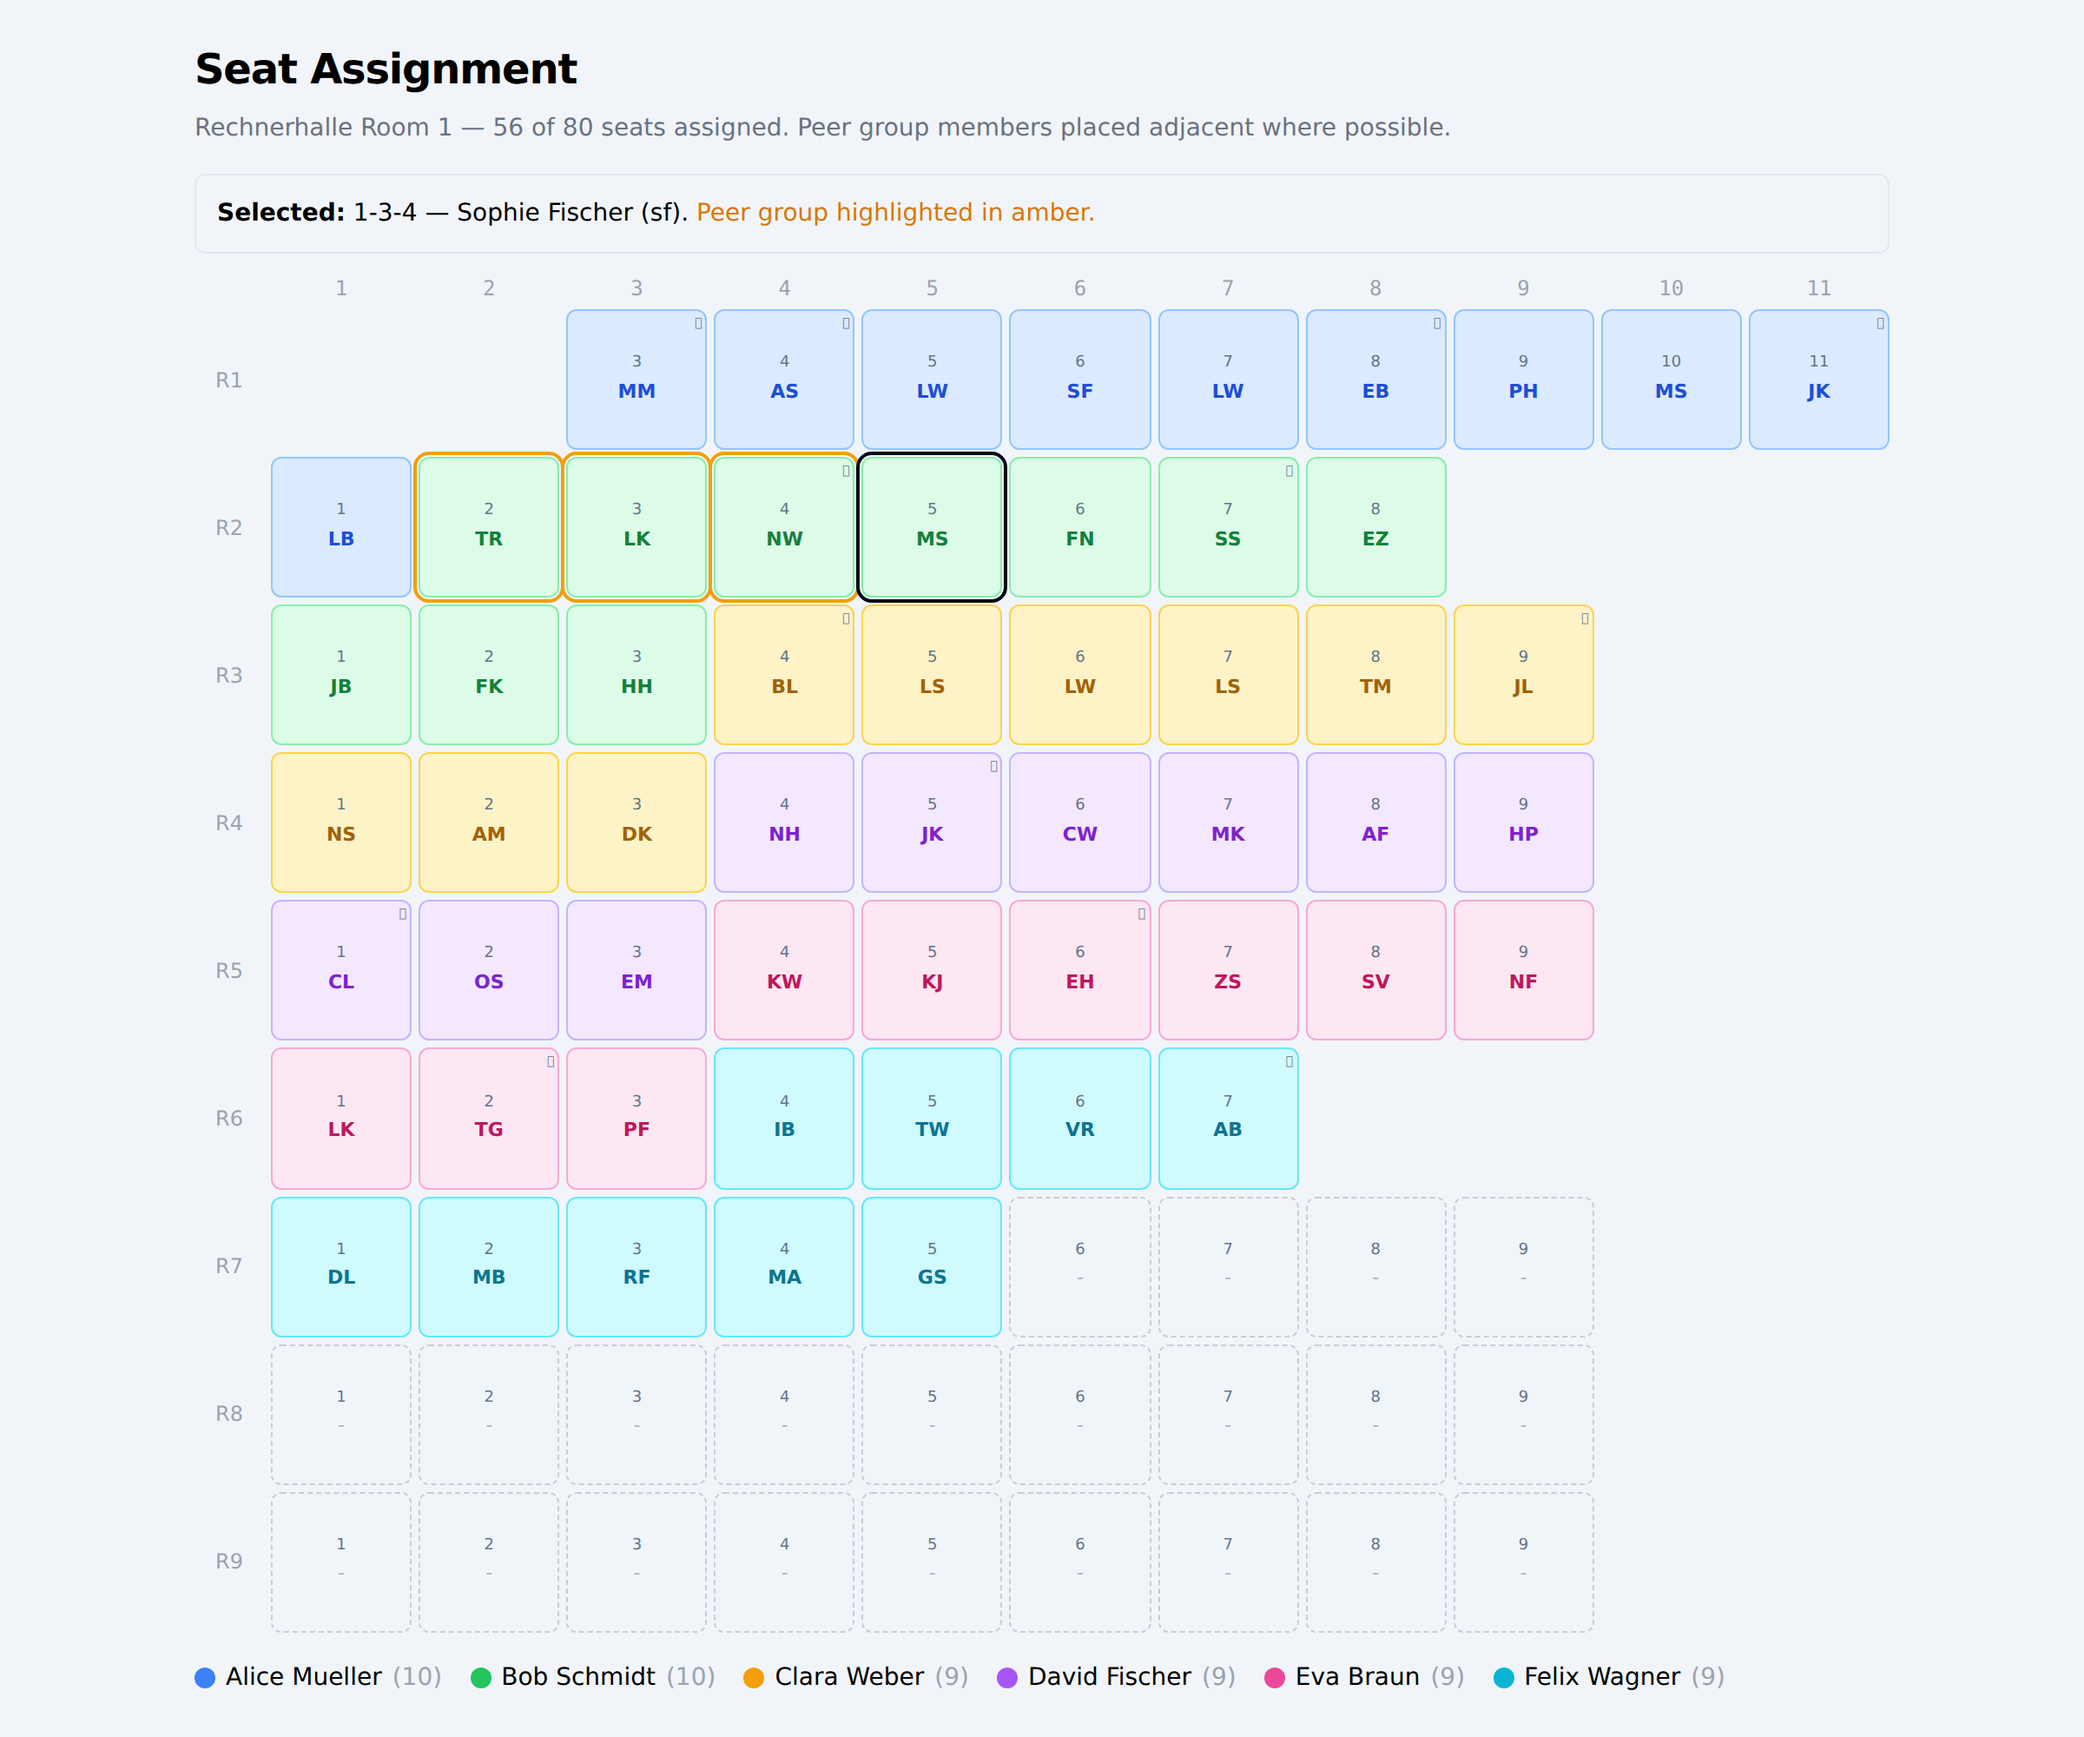
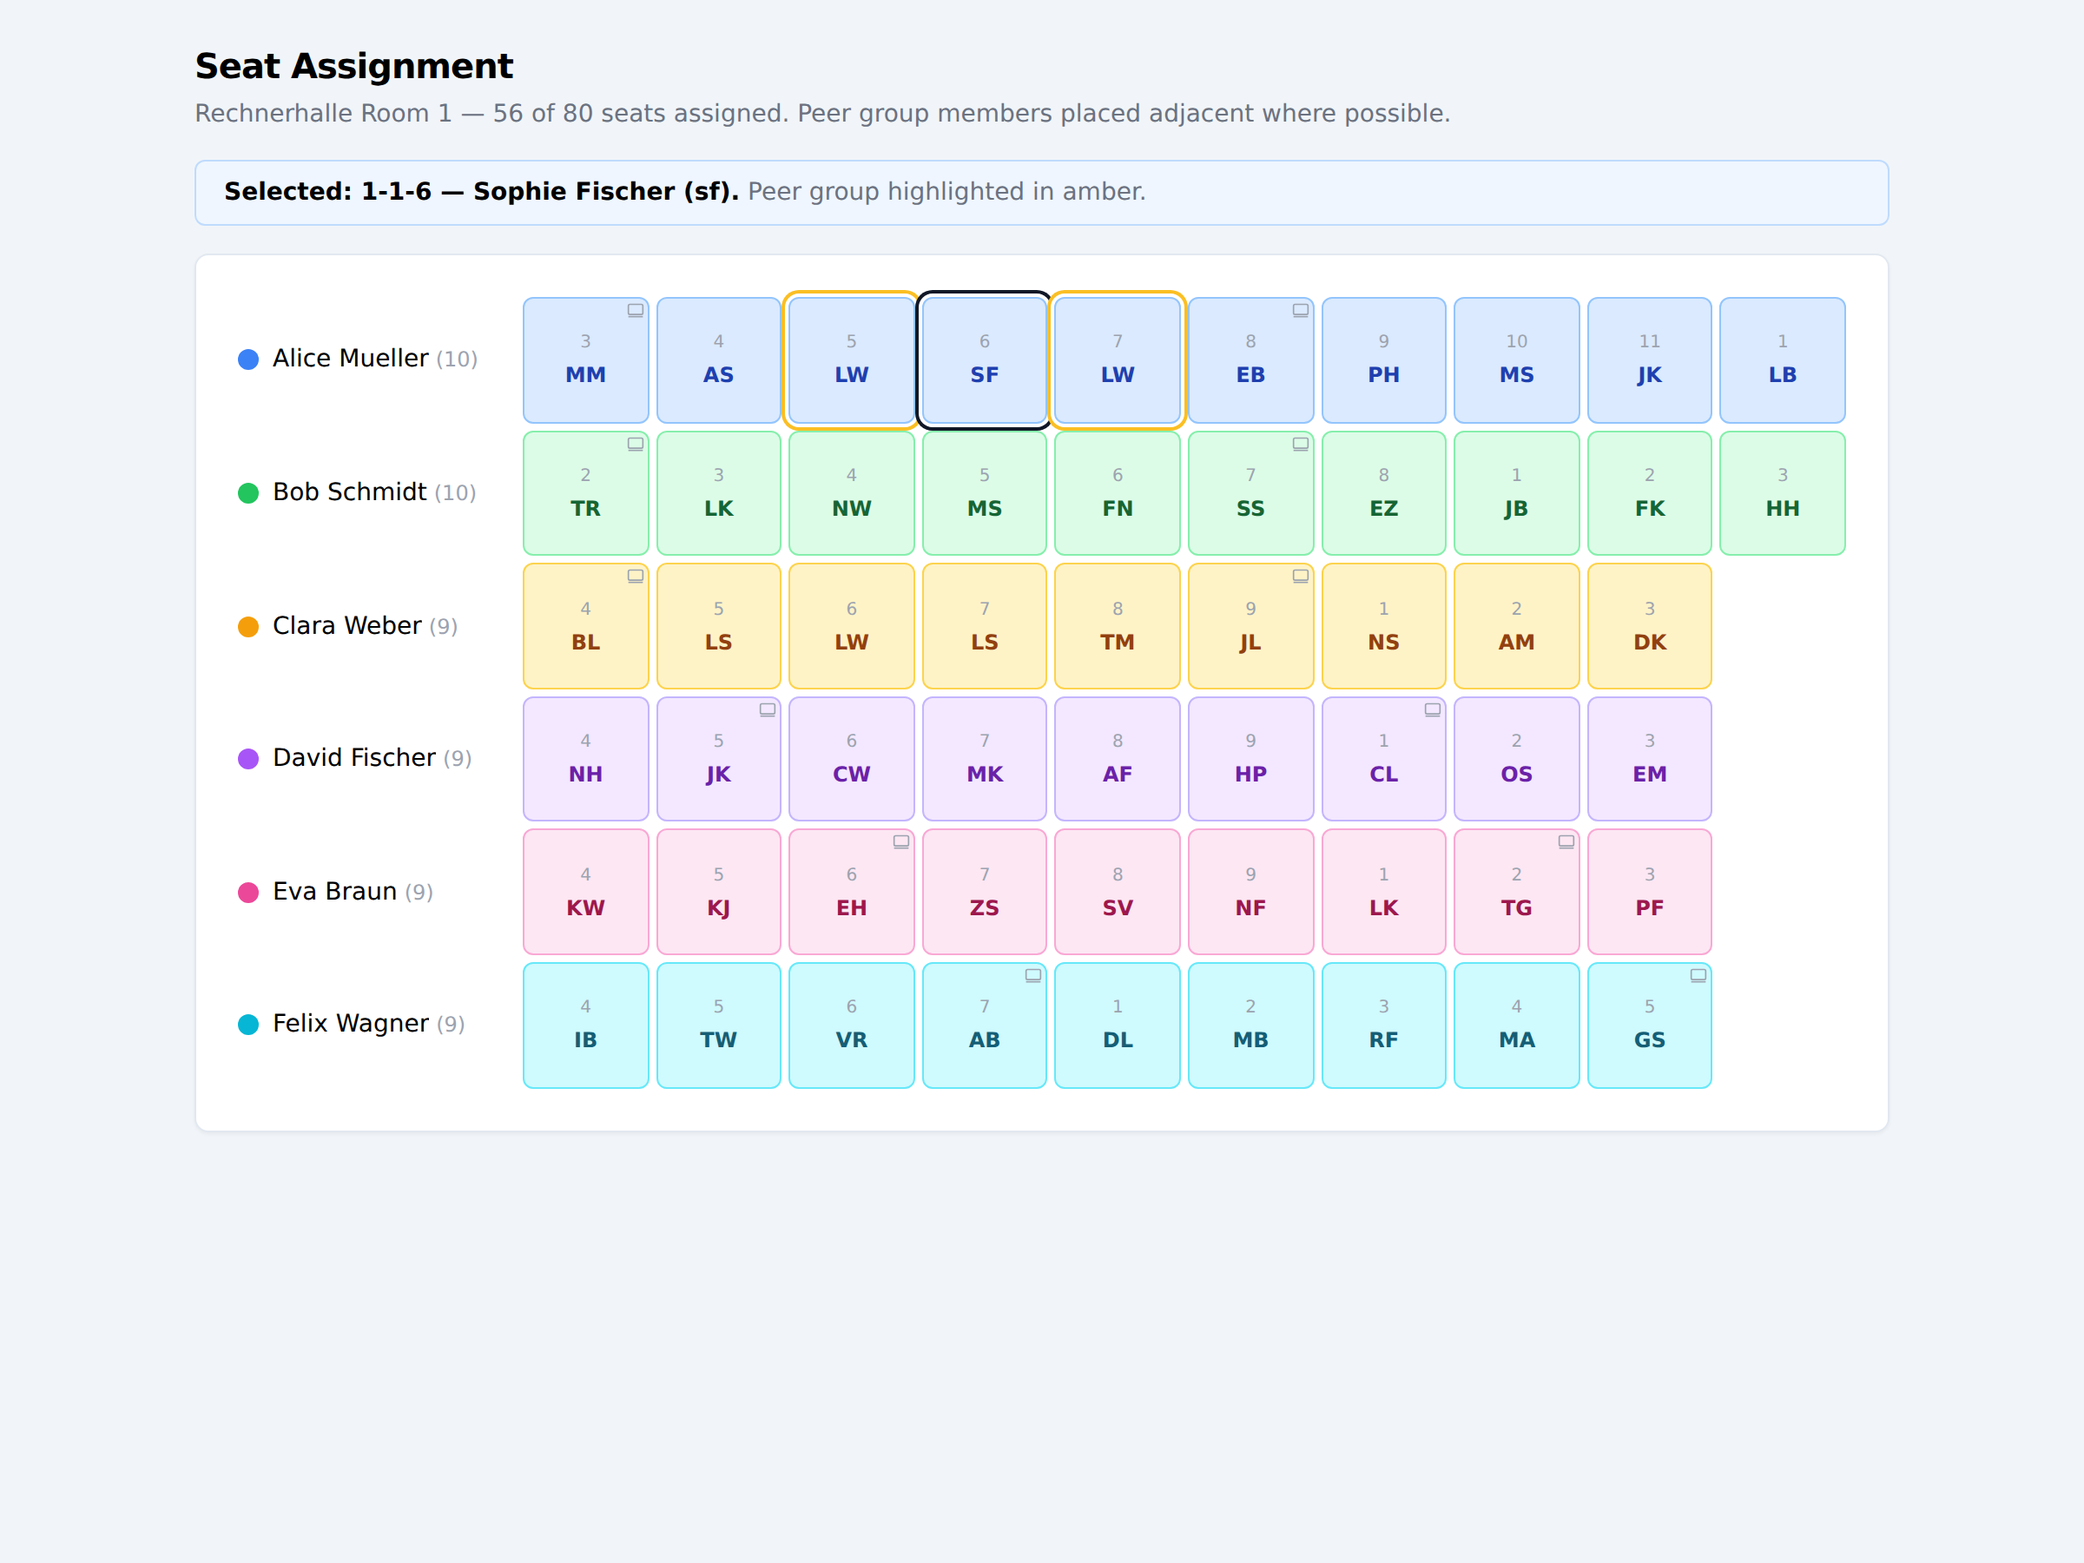
Transpose SeatGrid to tutor-grouped rows
Each tutor gets one row in the seat grid, with all their seats laid out
horizontally. This replaces the physical R1-R9 room grid with a cleaner
tutor-oriented view where grouping is immediately visible.

- Tutor name + student count as row label (with color dot)
- Seats sorted by row then position within each tutor row
- Removed SeatGridLegend (tutor info now in row labels)
- Wider label column (10rem) for full tutor names

diff --git a/client/src/introCourse/pages/SeatAssignment/components/SeatGrid/SeatGrid.tsx b/client/src/introCourse/pages/SeatAssignment/components/SeatGrid/SeatGrid.tsx
@@ -17,9 +17,8 @@ import { Seat } from '../../../../interfaces/Seat'
 import { Tutor } from '../../../../interfaces/Tutor'
 import { PeerAssignment } from '../../../../interfaces/PeerAssignment'
 import { updateSeatPlan } from '../../../../network/mutations/updateSeatPlan'
-import { buildSeatLookup, getGridDimensions, parseSeatName } from '../../utils/seatGrid'
+import { parseSeatName, TUTOR_COLORS } from '../../utils/seatGrid'
 import { SeatCell } from './SeatCell'
-import { SeatGridLegend } from './SeatGridLegend'
 import { CoursePhaseParticipationWithStudent } from '@tumaet/prompt-shared-state'
 
 interface SeatGridProps {
@@ -50,13 +49,40 @@ export const SeatGrid = ({ seats, tutors, participations, peerAssignments }: Sea
   })
 
   // Build lookup maps
-  const seatLookup = useMemo(() => buildSeatLookup(seats), [seats])
   const seatByName = useMemo(() => {
     const map = new Map<string, Seat>()
     for (const s of seats) map.set(s.seatName, s)
     return map
   }, [seats])
-  const { maxRow, maxPosition } = useMemo(() => getGridDimensions(seats), [seats])
+
+  // Group seats by tutor, sorted within each group by row then position
+  const seatsByTutor = useMemo(() => {
+    const map = new Map<string, Seat[]>()
+    for (const seat of seats) {
+      const tutorId = seat.assignedTutor ?? 'unassigned'
+      if (!map.has(tutorId)) map.set(tutorId, [])
+      map.get(tutorId)!.push(seat)
+    }
+    for (const [, tutorSeats] of map) {
+      tutorSeats.sort((a, b) => {
+        const pa = parseSeatName(a.seatName)
+        const pb = parseSeatName(b.seatName)
+        if (!pa || !pb) return a.seatName.localeCompare(b.seatName)
+        if (pa.row !== pb.row) return pa.row - pb.row
+        return pa.position - pb.position
+      })
+    }
+    return map
+  }, [seats])
+
+  // Max seats in any tutor group (for uniform grid columns)
+  const maxSeatsPerTutor = useMemo(() => {
+    let max = 0
+    for (const [, tutorSeats] of seatsByTutor) {
+      max = Math.max(max, tutorSeats.length)
+    }
+    return max
+  }, [seatsByTutor])
 
   const participationMap = useMemo(() => {
     const map = new Map<string, CoursePhaseParticipationWithStudent>()
@@ -150,6 +176,14 @@ export const SeatGrid = ({ seats, tutors, participations, peerAssignments }: Sea
     return peerMap.get(seat.assignedStudent) ?? new Set<string>()
   }, [selectedSeat, seatByName, peerMap])
 
+  // Ordered tutor IDs (sorted by color index for stable rendering)
+  const orderedTutorIds = useMemo(() => {
+    const ids = Array.from(seatsByTutor.keys()).filter((id) => id !== 'unassigned')
+    ids.sort((a, b) => (tutorColorMap.get(a) ?? 0) - (tutorColorMap.get(b) ?? 0))
+    if (seatsByTutor.has('unassigned')) ids.push('unassigned')
+    return ids
+  }, [seatsByTutor, tutorColorMap])
+
   return (
     <div>
       {selectedSeat && (
@@ -169,55 +203,62 @@ export const SeatGrid = ({ seats, tutors, participations, peerAssignments }: Sea
       <div
         className='grid gap-1'
         style={{
-          gridTemplateColumns: `2.5rem repeat(${maxPosition}, minmax(0, 1fr))`,
+          gridTemplateColumns: `10rem repeat(${maxSeatsPerTutor}, minmax(0, 1fr))`,
         }}
       >
-        {/* Header row: position numbers */}
-        <div /> {/* empty corner */}
-        {Array.from({ length: maxPosition }, (_, i) => i + 1).map((pos) => (
-          <div key={pos} className='text-center text-xs text-muted-foreground font-mono'>
-            {pos}
-          </div>
-        ))}
+        {orderedTutorIds.map((tutorId) => {
+          const tutorSeats = seatsByTutor.get(tutorId) ?? []
+          const tutor = tutors.find((t) => t.id === tutorId)
+          const colorIdx = tutorColorMap.get(tutorId) ?? -1
+          const color = colorIdx >= 0 ? TUTOR_COLORS[colorIdx % TUTOR_COLORS.length] : null
+          const label = tutor
+            ? `${tutor.firstName} ${tutor.lastName}`
+            : tutorId === 'unassigned'
+              ? 'Unassigned'
+              : tutorId.slice(0, 8)
+          const studentCount = tutorSeats.filter((s) => s.assignedStudent).length
 
-        {/* Seat rows */}
-        {Array.from({ length: maxRow }, (_, i) => i + 1).map((row) => (
-          <Fragment key={row}>
-            {/* Row label */}
-            <div
-              className='flex items-center justify-center text-xs font-medium text-muted-foreground'
-            >
-              R{row}
-            </div>
-            {/* Seat cells */}
-            {Array.from({ length: maxPosition }, (_, i) => i + 1).map((pos) => {
-              const key = `${row}-${pos}`
-              const seat = seatLookup.get(key)
+          return (
+            <Fragment key={tutorId}>
+              {/* Tutor row label */}
+              <div className='flex items-center text-sm font-medium truncate pr-2'>
+                {color && (
+                  <div className={`w-3 h-3 rounded-full mr-2 flex-shrink-0 ${color.dot}`} />
+                )}
+                <span className='truncate'>{label}</span>
+                <span className='text-muted-foreground ml-1 flex-shrink-0 text-xs'>
+                  ({studentCount})
+                </span>
+              </div>
 
-              if (!seat) {
-                return <div key={key} className='aspect-square' />
-              }
+              {/* Tutor's seats */}
+              {tutorSeats.map((seat) => {
+                const isPeerOfSelected =
+                  seat.assignedStudent != null && selectedPeers.has(seat.assignedStudent)
 
-              const isPeerOfSelected =
-                seat.assignedStudent != null && selectedPeers.has(seat.assignedStudent)
+                return (
+                  <SeatCell
+                    key={seat.seatName}
+                    seat={seat}
+                    tutorColorIndex={
+                      seat.assignedTutor ? (tutorColorMap.get(seat.assignedTutor) ?? -1) : -1
+                    }
+                    studentLabel={getStudentInitials(seat.assignedStudent)}
+                    isSelected={selectedSeat === seat.seatName}
+                    isPeerOfSelected={isPeerOfSelected}
+                    onClick={() => handleCellClick(seat.seatName)}
+                  />
+                )
+              })}
 
-              return (
-                <SeatCell
-                  key={key}
-                  seat={seat}
-                  tutorColorIndex={seat.assignedTutor ? (tutorColorMap.get(seat.assignedTutor) ?? -1) : -1}
-                  studentLabel={getStudentInitials(seat.assignedStudent)}
-                  isSelected={selectedSeat === seat.seatName}
-                  isPeerOfSelected={isPeerOfSelected}
-                  onClick={() => handleCellClick(seat.seatName)}
-                />
-              )
-            })}
-          </Fragment>
-        ))}
+              {/* Pad remaining columns for uniform grid */}
+              {Array.from({ length: maxSeatsPerTutor - tutorSeats.length }, (_, i) => (
+                <div key={`pad-${i}`} className='aspect-square' />
+              ))}
+            </Fragment>
+          )
+        })}
       </div>
-
-      <SeatGridLegend tutors={tutors} seats={seats} tutorColorMap={tutorColorMap} />
 
       {/* Cross-tutor swap dialog */}
       <AlertDialog open={!!crossTutorSwap} onOpenChange={() => setCrossTutorSwap(null)}>
